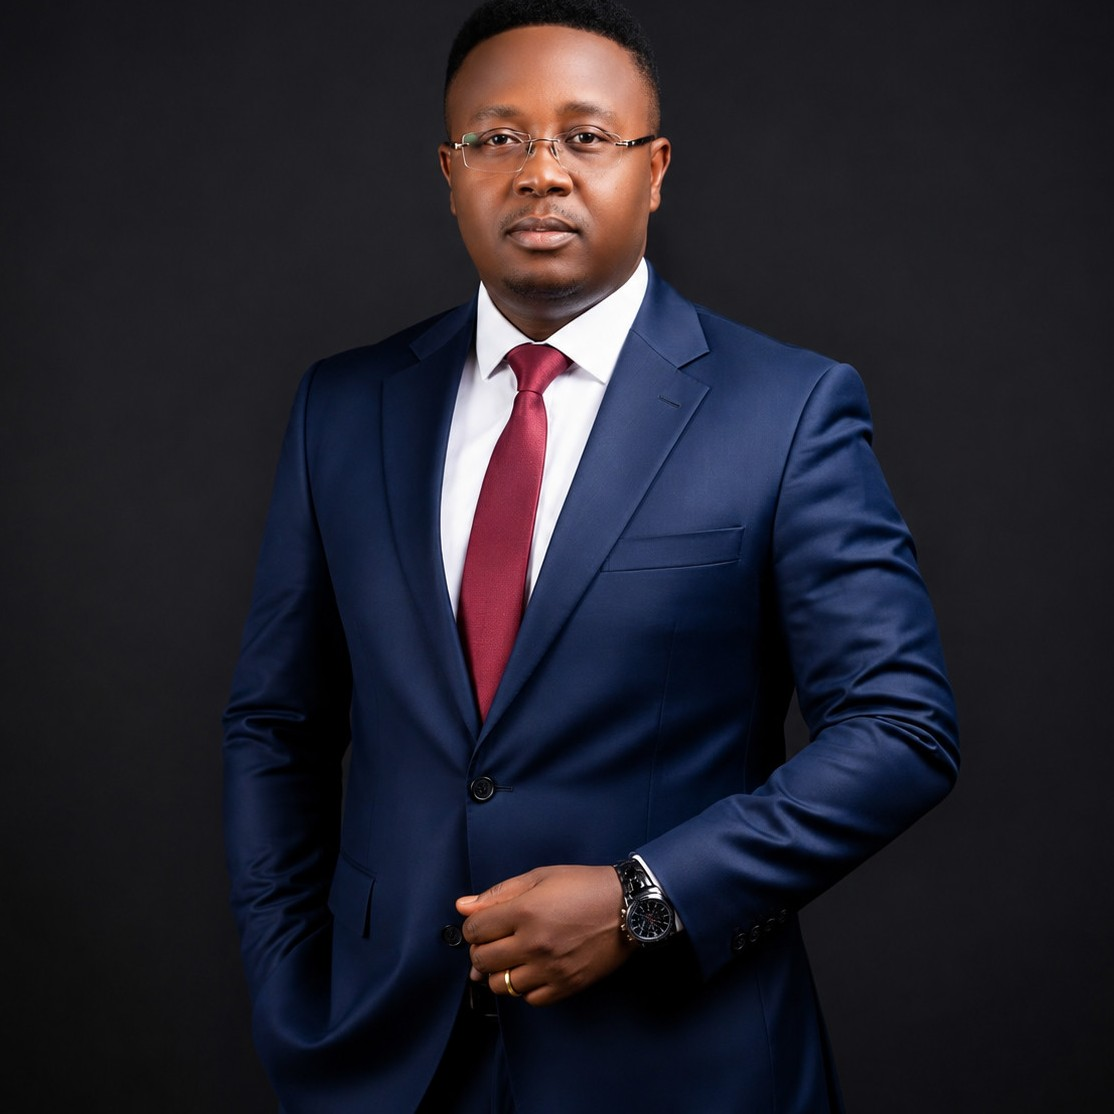
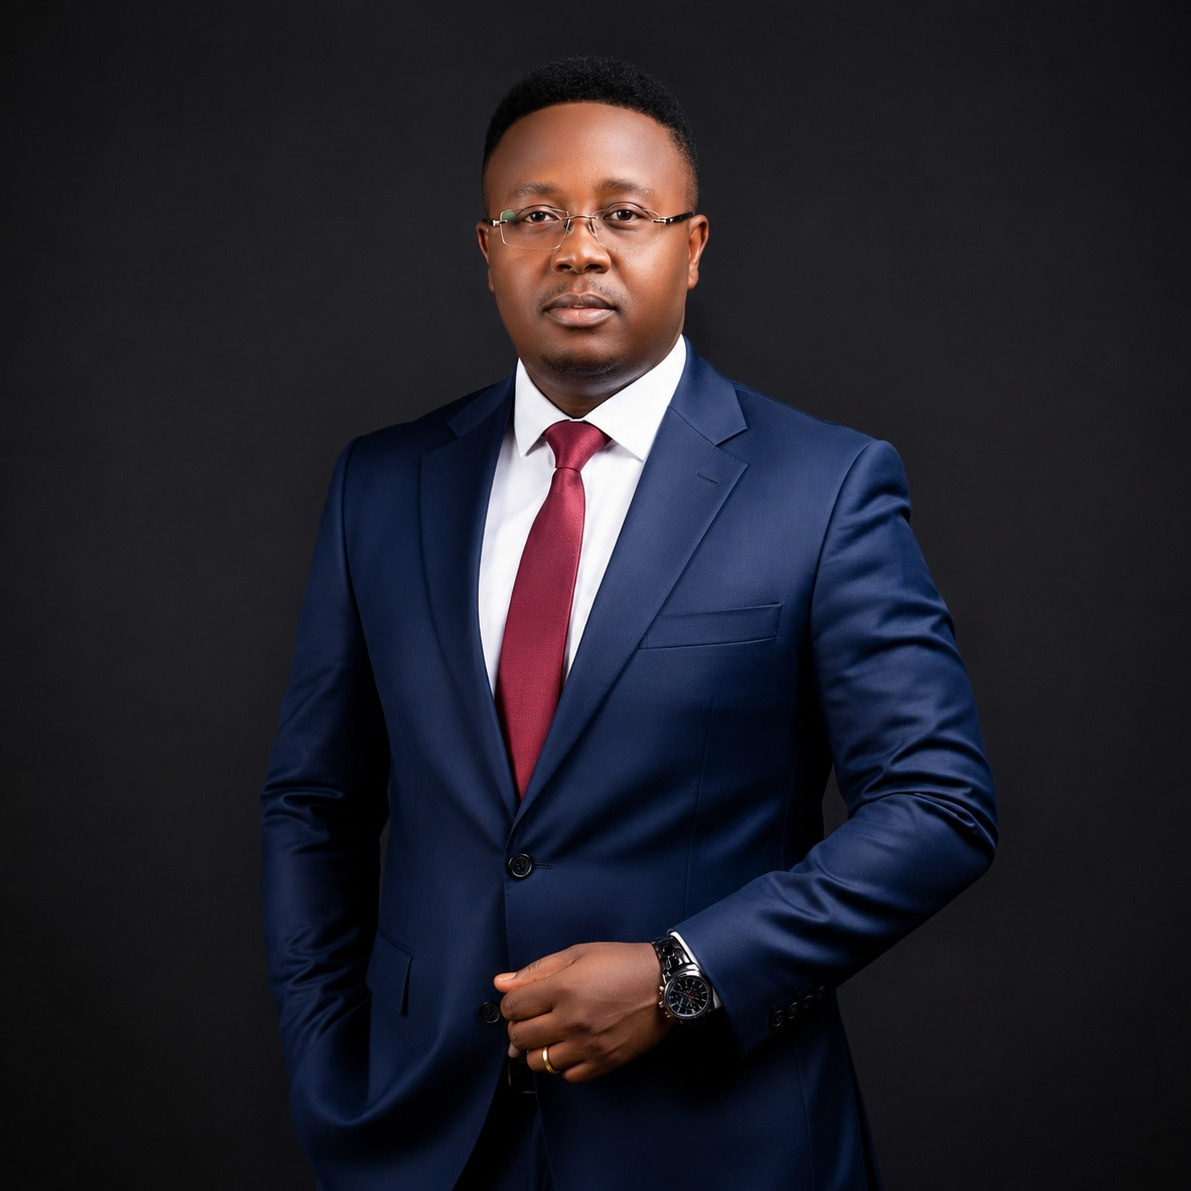
V2: corrections retour Ruben - recadrage photo CEO, glassmorphism, bloc services avec photos
- Photo CEO : recadrage refait sans jamais rogner en haut (tete entiere)
- Overlay legende : degrade remplace par une carte verre depoli (glassmorphism), texte blanc lisible
- Bloc Trois axes (Accueil) : icones remplacees par les vraies photos edutech/coaching/business-corporate, meme mise en page alternee que Nos services
- Nouvelle habitude : texte des cartes/blocs toujours justifie

diff --git a/code/index.html b/code/index.html
@@ -65,72 +65,36 @@
       <span class="accent-swoosh" aria-hidden="true"></span>
       <p style="color:var(--support)">Des solutions innovantes, pensées pour accompagner les individus, les organisations et l'Afrique vers l'excellence.</p>
 
-      <div class="expertise-list">
-        <article class="expertise-block">
-          <svg class="expertise-block__icon" viewBox="0 0 48 48" fill="none" stroke-width="2" stroke-linecap="round" stroke-linejoin="round" aria-hidden="true">
-            <defs>
-              <linearGradient id="grad-edutech" x1="0" y1="0" x2="1" y2="1">
-                <stop offset="0%" stop-color="#FF9327"></stop>
-                <stop offset="55%" stop-color="#FF5913"></stop>
-                <stop offset="100%" stop-color="#F22612"></stop>
-              </linearGradient>
-            </defs>
-            <g stroke="url(#grad-edutech)">
-              <rect x="7" y="11" width="34" height="22" rx="2"></rect>
-              <line x1="19" y1="39" x2="29" y2="39"></line>
-              <line x1="24" y1="33" x2="24" y2="39"></line>
-              <polyline points="15,24 20,19 24,23 33,15"></polyline>
-            </g>
-            <circle cx="33" cy="15" r="1.6" fill="#FF5913" stroke="none"></circle>
-          </svg>
+      <div class="pole-section-list">
+        <div class="pole-section">
           <div>
             <h3>EduTech</h3>
             <p>À travers sa solution numérique AXÔSU, nous réinventons l'expérience éducative et culturelle en proposant une plateforme innovante au service des familles, des apprenants et des établissements. Notre écosystème offre un suivi scolaire intelligent des enfants, une immersion dans la richesse des cultures africaines, un marché culturel décentralisé valorisant les talents et le patrimoine du continent, ainsi qu'un espace personnel sécurisé intégrant l'actualité africaine et internationale, un espace privé de coaching et de bien-être, des espaces d'échanges en famille et une gamme de services conçus pour favoriser l'apprentissage, l'épanouissement et la transmission des valeurs africaines.</p>
           </div>
-        </article>
+          <div class="pole-section__media">
+            <img src="assets/img/edutech.jpg" alt="Plateforme EduTech AXÔSU au service des familles et des établissements" loading="lazy" />
+          </div>
+        </div>
 
-        <article class="expertise-block">
-          <svg class="expertise-block__icon" viewBox="0 0 48 48" fill="none" stroke-width="2" stroke-linecap="round" stroke-linejoin="round" aria-hidden="true">
-            <defs>
-              <linearGradient id="grad-coaching" x1="0" y1="0" x2="1" y2="1">
-                <stop offset="0%" stop-color="#FF9327"></stop>
-                <stop offset="55%" stop-color="#FF5913"></stop>
-                <stop offset="100%" stop-color="#F22612"></stop>
-              </linearGradient>
-            </defs>
-            <g stroke="url(#grad-coaching)">
-              <circle cx="16" cy="13" r="5"></circle>
-              <path d="M8 39 v-5 a8 8 0 0 1 16 0 v3"></path>
-              <line x1="28" y1="33" x2="40" y2="21"></line>
-              <polyline points="30,21 40,21 40,31"></polyline>
-            </g>
-          </svg>
+        <div class="pole-section reverse">
           <div>
             <h3>Coaching Professionnel</h3>
             <p>Nous accompagnons les professionnels, les dirigeants, les entrepreneurs, les équipes et les organisations dans le développement de leur potentiel humain et de leur performance. Notre expertise est particulièrement reconnue en intelligence émotionnelle, gestion du stress, prévention des risques psychosociaux, leadership, communication interpersonnelle et développement des compétences comportementales (soft skills). Grâce à une approche humaine et pragmatique, nous aidons chacun à mieux gérer les défis du quotidien, à renforcer son équilibre personnel et professionnel, et à évoluer durablement dans un environnement en constante transformation.</p>
           </div>
-        </article>
+          <div class="pole-section__media">
+            <img src="assets/img/coaching.jpg" alt="Séance de coaching professionnel" loading="lazy" />
+          </div>
+        </div>
 
-        <article class="expertise-block">
-          <svg class="expertise-block__icon" viewBox="0 0 48 48" fill="none" stroke-width="2" stroke-linecap="round" stroke-linejoin="round" aria-hidden="true">
-            <defs>
-              <linearGradient id="grad-business" x1="0" y1="0" x2="1" y2="1">
-                <stop offset="0%" stop-color="#FF9327"></stop>
-                <stop offset="55%" stop-color="#FF5913"></stop>
-                <stop offset="100%" stop-color="#F22612"></stop>
-              </linearGradient>
-            </defs>
-            <g stroke="url(#grad-business)">
-              <rect x="9" y="18" width="30" height="21" rx="2"></rect>
-              <path d="M17 18 v-4 a7 7 0 0 1 14 0 v4"></path>
-              <line x1="9" y1="27" x2="39" y2="27"></line>
-            </g>
-          </svg>
+        <div class="pole-section">
           <div>
             <h3>Business Corporate</h3>
             <p>Nous accompagnons les entreprises, les institutions et les organisations dans la conception et le déploiement de solutions d'affaires, de projets stratégiques et de partenariats à forte valeur ajoutée. En alliant innovation, expertise et connaissance des réalités africaines, nous contribuons à créer des opportunités de croissance, à renforcer la compétitivité des organisations et à générer un impact économique et social durable.</p>
           </div>
-        </article>
+          <div class="pole-section__media">
+            <img src="assets/img/business-corporate.jpg" alt="Solutions Business Corporate AXÔSU pour les entreprises et institutions" loading="lazy" />
+          </div>
+        </div>
       </div>
     </div>
   </section>

diff --git a/code/assets/css/style.css b/code/assets/css/style.css
@@ -366,44 +366,61 @@ select:focus-visible {
   height: 100%;
   object-fit: cover;
 }
-/* Légende (nom/fonction) en overlay sur la photo du hero — dégradé blanc qui
-   part opaque au ras du bas et se dissout vers transparent à ~30% de la
-   hauteur en remontant, pour rester dans le thème clair du site. */
+/* Légende (nom/fonction) en overlay sur la photo du hero — carte "verre
+   dépoli" (glassmorphism) posée en flottant au-dessus du bas de la photo,
+   plutôt qu'un simple dégradé (peu lisible sur cette photo à fond sombre). */
 .hero__media-caption {
   position: absolute;
-  left: 0;
-  right: 0;
-  bottom: 0;
-  padding: 28px 26px 20px;
-  background: linear-gradient(
-    to top,
-    rgba(255, 255, 255, 0.96) 0%,
-    rgba(255, 255, 255, 0.82) 14%,
-    rgba(255, 255, 255, 0) 30%
-  );
+  left: 18px;
+  right: 18px;
+  bottom: 18px;
+  padding: 14px 18px;
+  border-radius: 14px;
+  background: rgba(20, 30, 38, 0.38);
+  backdrop-filter: blur(16px) saturate(160%);
+  -webkit-backdrop-filter: blur(16px) saturate(160%);
+  border: 1px solid rgba(255, 255, 255, 0.28);
+  box-shadow: 0 10px 30px -10px rgba(0, 0, 0, 0.45);
 }
 .hero__media-name {
   margin: 0;
   font-family: var(--font-display);
   font-weight: 700;
   font-size: 1.05rem;
-  color: var(--marine);
+  color: var(--white);
 }
 .hero__media-role {
   margin: 2px 0 0;
-  font-size: 0.82rem;
+  font-size: 0.8rem;
   font-weight: 600;
   letter-spacing: 0.04em;
   text-transform: uppercase;
-  color: var(--support);
+  color: rgba(255, 255, 255, 0.82);
 }
 
-/* ---------- Sections pôles avec photo (page Nos pôles) ---------- */
+/* ---------- Sections pôles avec photo (page Nos services + Accueil) ---------- */
+/* Liste de blocs pôle/photo empilés (Accueil) — l'espacement entre blocs
+   remplace celui qu'apportaient les <section> séparées de Nos services. */
+.pole-section-list {
+  display: grid;
+  gap: 64px;
+  margin-top: 44px;
+}
 .pole-section {
   display: grid;
   grid-template-columns: 1fr 1fr;
   gap: 48px;
   align-items: center;
+}
+.pole-section h3 {
+  font-size: 1.2rem;
+  margin-bottom: 12px;
+}
+/* Toujours justifier le texte des blocs/cartes pour une harmonie visuelle
+   (habitude prise le 05/08/2026, à appliquer systématiquement). */
+.pole-section p {
+  text-align: justify;
+  text-justify: inter-word;
 }
 .pole-section__heading {
   display: flex;
@@ -483,6 +500,8 @@ select:focus-visible {
   color: var(--support);
   font-size: 0.97rem;
   margin-bottom: 0;
+  text-align: justify;
+  text-justify: inter-word;
 }
 
 /* ---------- Liste "expertise" (Accueil — remplace poles-grid/pole-card,
@@ -512,6 +531,8 @@ select:focus-visible {
   color: var(--support);
   max-width: 75ch;
   margin-bottom: 0;
+  text-align: justify;
+  text-justify: inter-word;
 }
 
 /* ---------- Cartes valeurs (page à propos) ---------- */
@@ -534,6 +555,8 @@ select:focus-visible {
   color: var(--support);
   font-size: 0.95rem;
   margin-bottom: 0;
+  text-align: justify;
+  text-justify: inter-word;
 }
 
 /* ---------- Bandeau CTA ---------- */

diff --git a/documentation/DESIGN.md b/documentation/DESIGN.md
@@ -150,3 +150,33 @@ selon la page :
   `nos-services.html`), contenu détaillé adapté aux 3 nouveaux axes avec 3
   nouvelles photos fournies par Ruben (`edutech.jpg`, `coaching.jpg`,
   `business-corporate.jpg`, remplacent les anciennes `pole-*.jpg`).
+- ⚠ **05/08/2026, corrections immédiates après retour de Ruben** :
+  - **Recadrage photo hero (règle à retenir pour toute future photo de
+    ce type)** : le premier recadrage rognait ~6,5% en haut (pour retirer
+    du fond vide au-dessus de la tête) — visuellement perçu comme "la tête
+    coupée", très mauvais. **Règle posée par Ruben, à appliquer sur toute
+    future photo de personne** : on peut rogner à gauche, à droite et en
+    bas, **jamais en haut**. Recadrage refait en gardant 100% de la hauteur
+    source (`box = (left, 0, left+new_w, h)`, aucun rognage vertical),
+    recentré uniquement sur les côtés pour obtenir le carré.
+  - **Overlay légende** : le dégradé blanc simple ("mal géré", peu lisible
+    sur cette photo à fond sombre) remplacé par une **carte "verre dépoli"
+    (glassmorphism)** flottante en bas de la photo — fond semi-transparent
+    sombre + `backdrop-filter: blur(16px) saturate(160%)`, bordure claire
+    fine, ombre portée, texte blanc. Nettement plus lisible et plus soigné
+    qu'un dégradé.
+  - **Bloc "Trois axes" de l'Accueil, 2e refonte** : les icônes SVG +
+    liste `.expertise-list`/`.expertise-block` remplacées par le **même
+    pattern que la page Nos services** (`.pole-section`, alternance photo/
+    texte, 3 vraies photos `edutech.jpg`/`coaching.jpg`/
+    `business-corporate.jpg`) — cohérence visuelle entre Accueil et Nos
+    services, et mise en page mieux équilibrée qu'une colonne de texte
+    avec une petite icône. Nouvelle classe `.pole-section-list` pour
+    l'espacement vertical entre les 3 blocs empilés (remplace l'espacement
+    qu'apportaient les `<section>` séparées sur Nos services).
+  - **Nouvelle habitude permanente (à appliquer systématiquement)** :
+    tout texte de paragraphe à l'intérieur d'un bloc/carte (`.pole-section
+    p`, `.value-card p`, `.pole-card p`) est désormais **justifié**
+    (`text-align: justify`) pour une harmonie visuelle des blocs de texte
+    — demande de Ruben du 05/08/2026, à reproduire sur tout nouveau bloc
+    de ce type.
